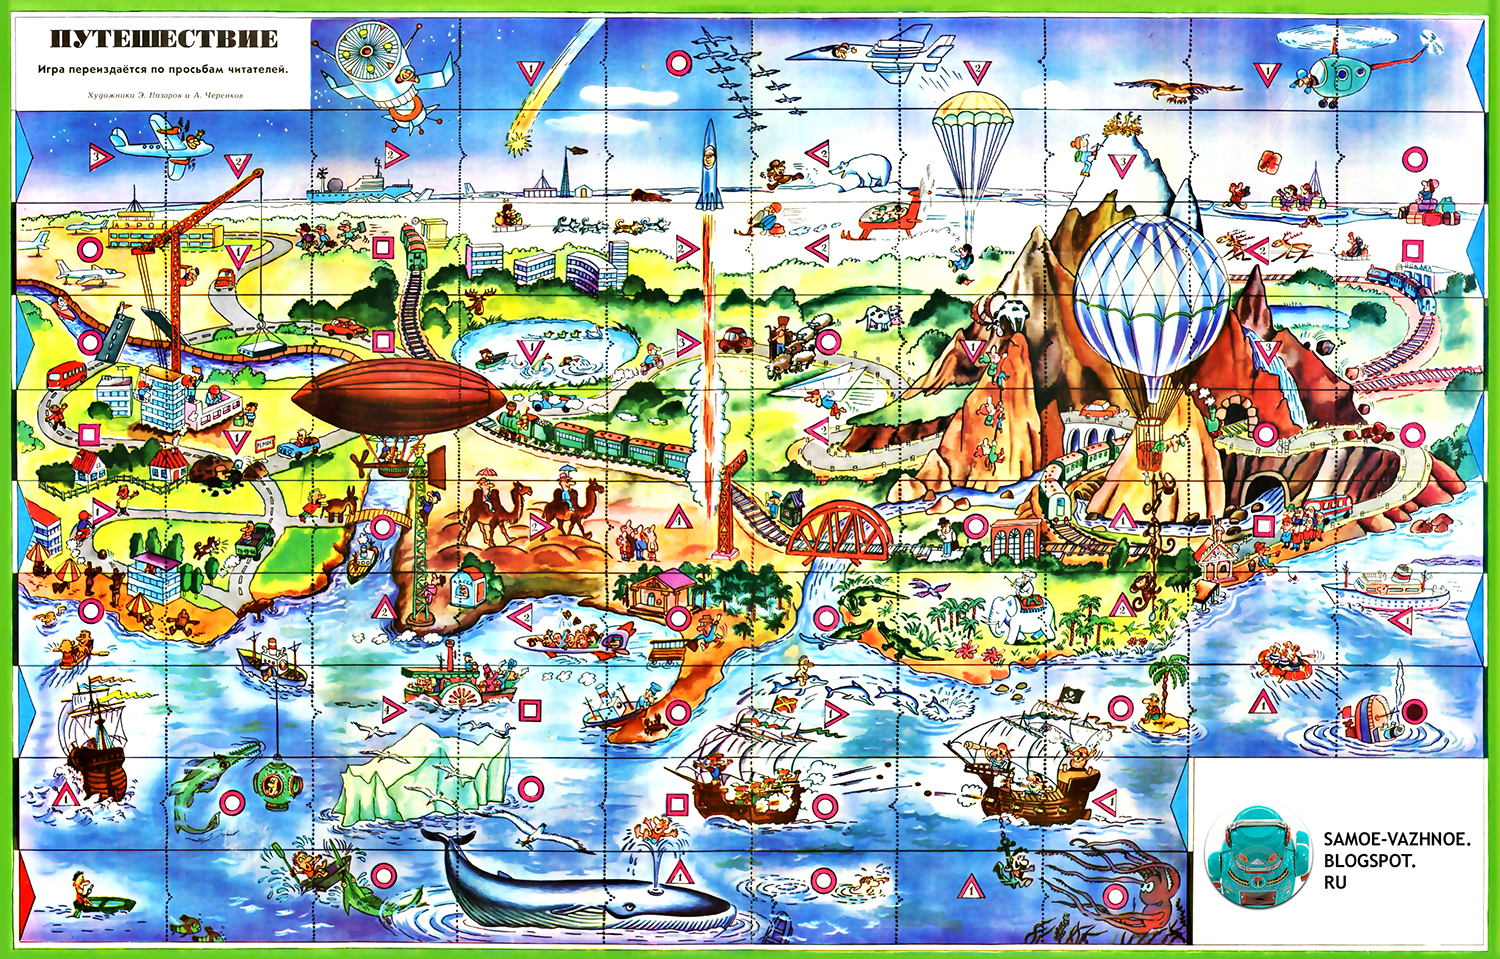
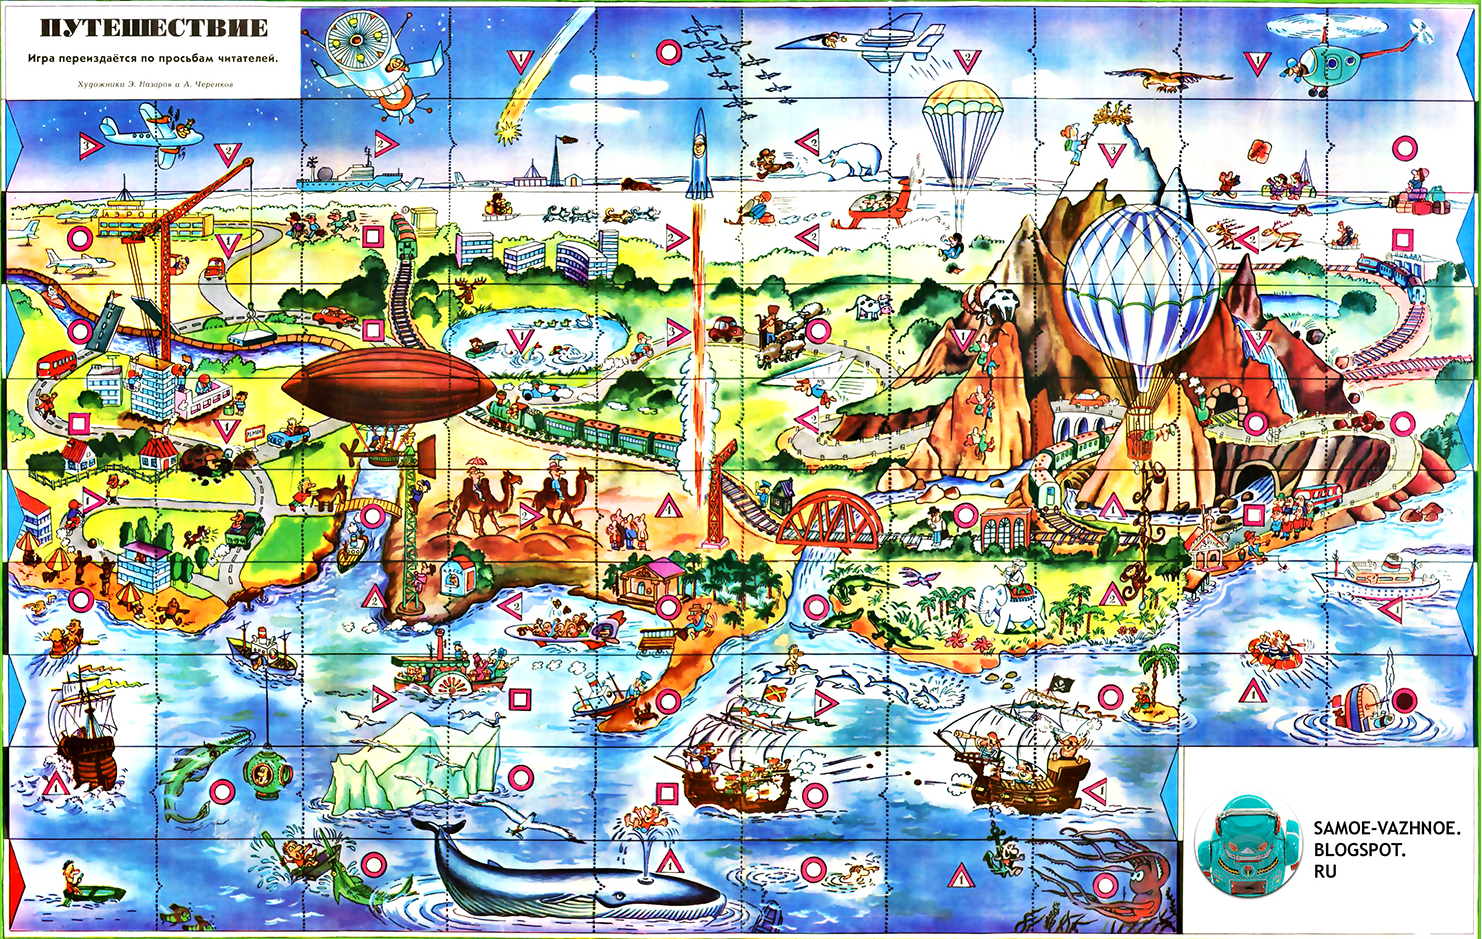
add grid

diff --git a/index.html b/index.html
@@ -13,8 +13,115 @@
 
 <body>
   <div class="game-field">
-    <img class="map" src="https://cdn.glitch.global/164631d8-afb1-4757-9701-8172f775d7a5/map.jpg?v=1694706132670">
+    <div class="grid">
+      <div class="cell"></div>
+      <div class="cell"></div>
+      <div class="cell"></div>
+      <div class="cell"></div>
+      <div class="cell"></div>
+      <div class="cell"></div>
+      <div class="cell"></div>
+      <div class="cell"></div>
+      <div class="cell"></div>
+      <div class="cell"></div>
+      <div class="cell"></div>
+      <div class="cell"></div>
+      <div class="cell"></div>
+      <div class="cell"></div>
+      <div class="cell"></div>
+      <div class="cell"></div>
+      <div class="cell"></div>
+      <div class="cell"></div>
+      <div class="cell"></div>
+      <div class="cell"></div>
+      <div class="cell"></div>
+      <div class="cell"></div>
+      <div class="cell"></div>
+      <div class="cell"></div>
+      <div class="cell"></div>
+      <div class="cell"></div>
+      <div class="cell"></div>
+      <div class="cell"></div>
+      <div class="cell"></div>
+      <div class="cell"></div>
+      <div class="cell"></div>
+      <div class="cell"></div>
+      <div class="cell"></div>
+      <div class="cell"></div>
+      <div class="cell"></div>
+      <div class="cell"></div>
+      <div class="cell"></div>
+      <div class="cell"></div>
+      <div class="cell"></div>
+      <div class="cell"></div>
+      <div class="cell"></div>
+      <div class="cell"></div>
+      <div class="cell"></div>
+      <div class="cell"></div>
+      <div class="cell"></div>
+      <div class="cell"></div>
+      <div class="cell"></div>
+      <div class="cell"></div>
+      <div class="cell"></div>
+      <div class="cell"></div>
+      <div class="cell"></div>
+      <div class="cell"></div>
+      <div class="cell"></div>
+      <div class="cell"></div>
+      <div class="cell"></div>
+      <div class="cell"></div>
+      <div class="cell"></div>
+      <div class="cell"></div>
+      <div class="cell"></div>
+      <div class="cell"></div>
+      <div class="cell"></div>
+      <div class="cell"></div>
+      <div class="cell"></div>
+      <div class="cell"></div>
+      <div class="cell"></div>
+      <div class="cell"></div>
+      <div class="cell"></div>
+      <div class="cell"></div>
+      <div class="cell"></div>
+      <div class="cell"></div>
+      <div class="cell"></div>
+      <div class="cell"></div>
+      <div class="cell"></div>
+      <div class="cell"></div>
+      <div class="cell"></div>
+      <div class="cell"></div>
+      <div class="cell"></div>
+      <div class="cell"></div>
+      <div class="cell"></div>
+      <div class="cell"></div>
+      <div class="cell"></div>
+      <div class="cell"></div>
+      <div class="cell"></div>
+      <div class="cell"></div>
+      <div class="cell"></div>
+      <div class="cell"></div>
+      <div class="cell"></div>
+      <div class="cell"></div>
+      <div class="cell"></div>
+      <div class="cell"></div>
+      <div class="cell"></div>
+      <div class="cell"></div>
+      <div class="cell"></div>
+      <div class="cell"></div>
+      <div class="cell"></div>
+      <div class="cell"></div>
+      <div class="cell"></div>
+      <div class="cell"></div>
+      <div class="cell"></div>
+      <div class="cell"></div>
+    </div>
+    <!-- <img class="map" src="https://cdn.glitch.global/164631d8-afb1-4757-9701-8172f775d7a5/map.jpg?v=1694706132670"> -->
+
+    <img class="map" src="./images/map.jpg" alt="">
   </div>
+
+
+
 
 
 

diff --git a/public/main.css b/public/main.css
@@ -1,8 +1,27 @@
 .game-field {
-height: 100vh;
-width: 100%;
+    height: 100vh;
+    width: 100%;
 }
+
 .game-field .map {
-height: 100%;
-width: 100%;
+    height: 100%;
+    width: 100%;
+}
+
+.grid {
+    background-color: rgba(255, 0, 0, 0.389);
+    position: absolute;
+    left: 0;
+    height: 100%;
+    top: 0;
+    width: 100%;
+    display: grid;
+    grid-template-columns: 1fr 1fr 1fr 1fr 1fr 1fr 1fr 1fr 1fr 1fr;
+    grid-template-rows: 1fr 1fr 1fr 1fr 1fr 1fr 1fr 1fr 1fr 1fr;
+    border: black solid 5px;
+}
+
+.cell {
+    border: black solid 1px;
+
 }
